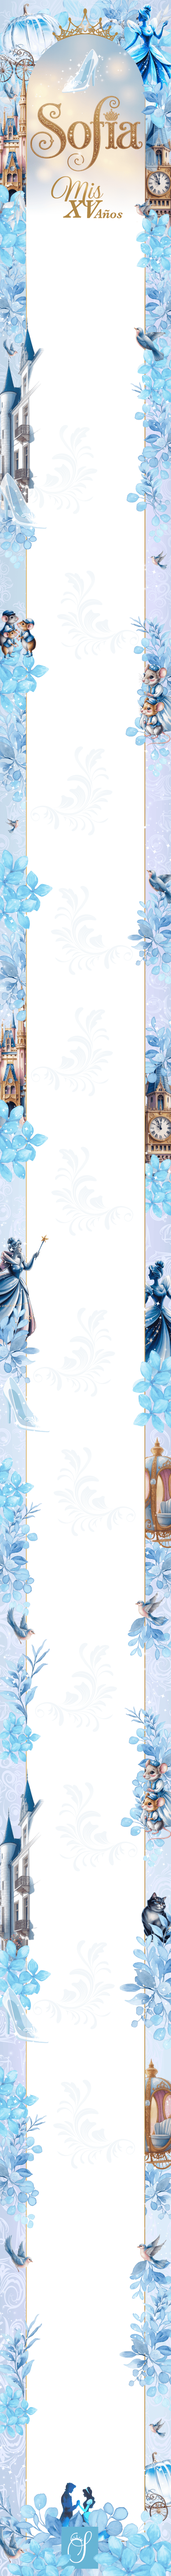
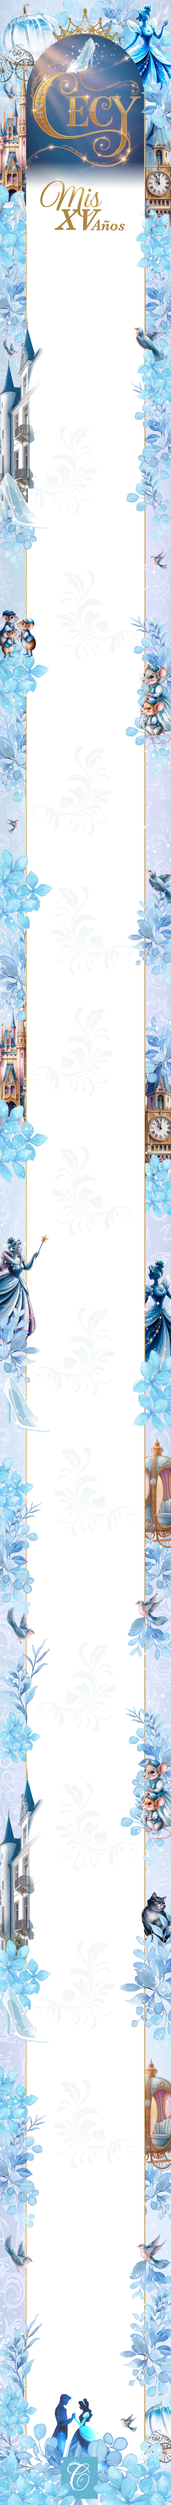
cecy

diff --git a/invi/invitacion_xv/cenicienta_Cecy/invitacion.html b/invi/invitacion_xv/cenicienta_Cecy/invitacion.html
@@ -33,11 +33,11 @@
        .background {
         background-image: url('img/fondo.png'); /* Ruta de tu imagen */
         background-repeat: no-repeat; /* Evita que se repita */
-        background-size: 450px 6740px; /* Tamaño exacto */
+        background-size: 450px 6555px; /* Tamaño exacto */
         background-position: top center; /* Centrado en la parte superior */
         width: 100%; /* Ancho fijo */
 		max-width: 450px; /* Ancho máximo */
-        min-height: 6740px; /* Altura exacta */
+        min-height: 6555px; /* Altura exacta */
         margin: 0 auto;
         animation: slideIn 1.5s ease-out;
 		position: relative;
@@ -1141,7 +1141,7 @@
         <div class="arrow-up"></div>
     </button> 
 			
-            <h1 class="name">Cecy</h1>
+            <h1 class="name"></h1>
             <p class="subtext">Quince años de amor,<br>
  sueños
 				
@@ -1160,7 +1160,8 @@ conmigo!</p>
 <br>
 
 			 <p class="parrafo">La vida está hecha de momentos<br> únicos,
- y este es uno de los<br>más importantes para mi.<br> Junto a mis padres: <br>Raúl Ayala Rivera y<br>Karla Karina Apartado Alonso,<br> te invito a celebrar <br>
+ y este es uno de los<br>más importantes para mi.<br> Junto a mis padres: <br>Raúl Ayala Rivera<br>
+ y<br>Karla Karina Apartado Alonso,<br> te invito a celebrar <br>
  el inicio de una nueva etapa.
 <br>
 <br>
@@ -1254,7 +1255,7 @@ de sobres que he preparado.</p>
         <p class="final-content">Da click aquí para subir<br> las fotos que tomes<br>
  durante la fiesta y formar <br>parte de mis recuerdos más especiales.</p>
        
-        <a href="https://drive.google.com/drive/folders/1R8LvAuz07YeG-44u77fr6UU1Z8kOXb3D?usp=drive_link" class="confirm-button"><strong><em>Subir Fotos</em></strong></a>
+        <a href="https://drive.google.com/drive/folders/1sn0o9ewoYYHJDZ1lGu43Jtk4FTGMv03a?usp=drive_link" class="confirm-button"><strong><em>Subir Fotos</em></strong></a>
     </div>
 			
    
